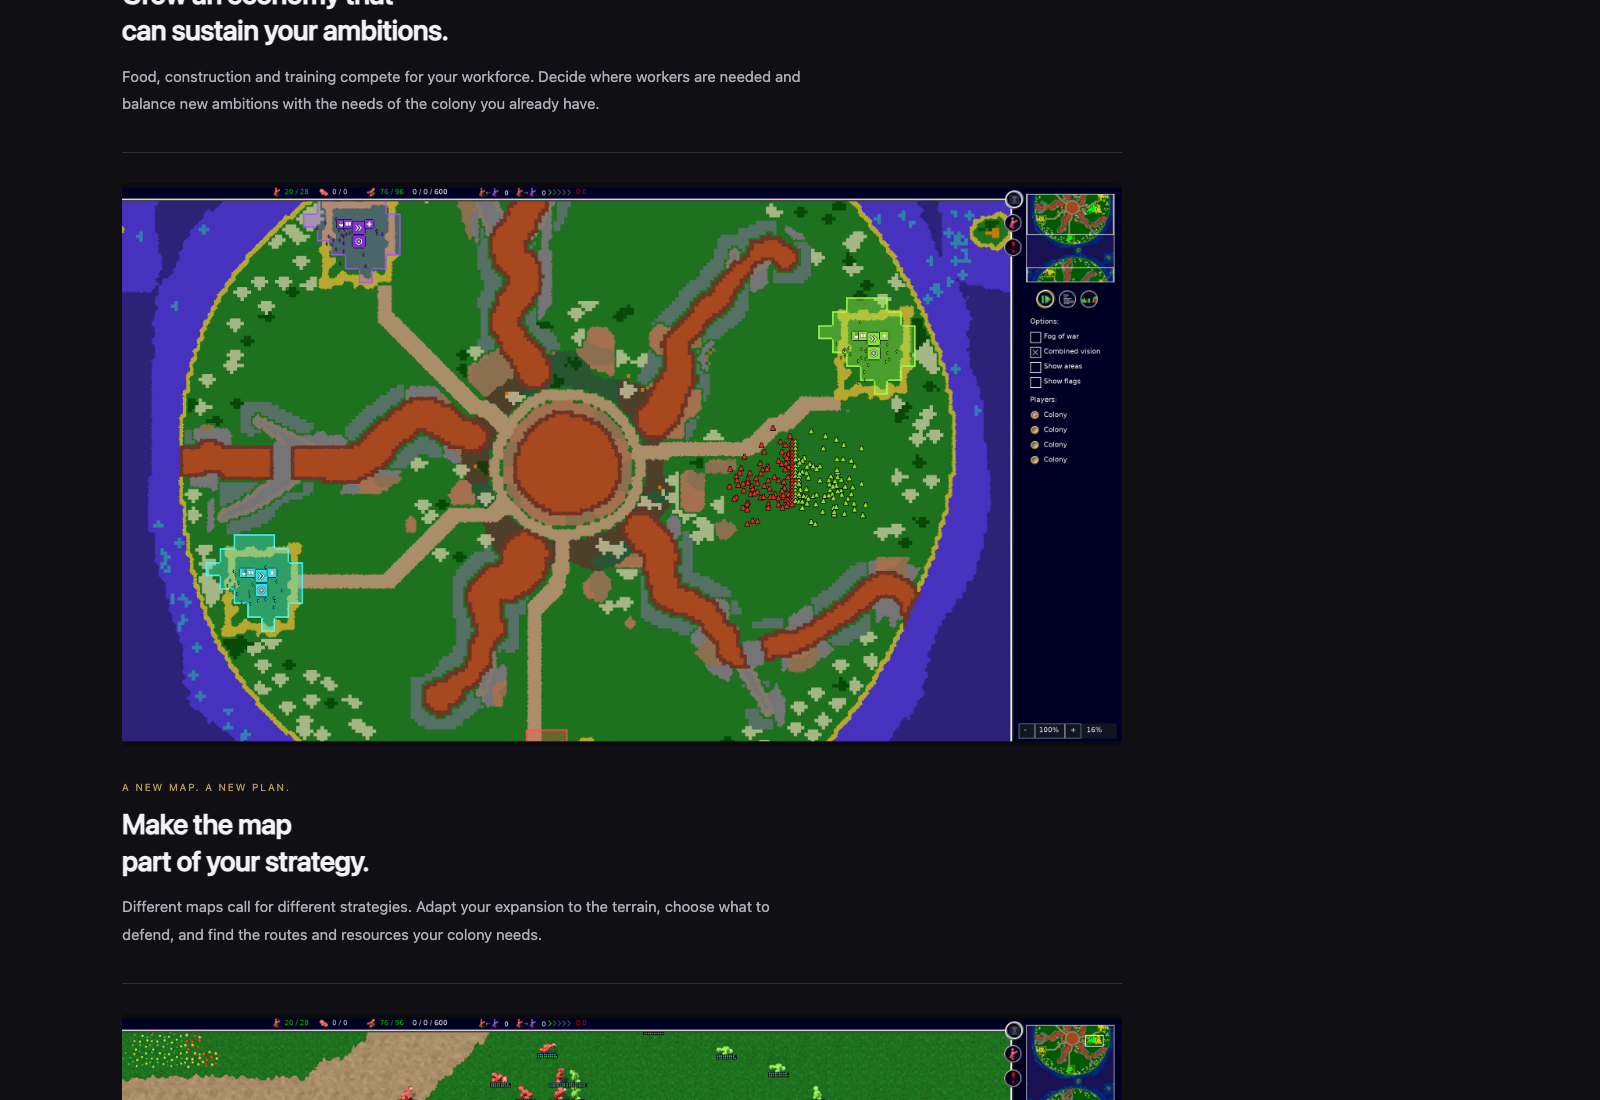
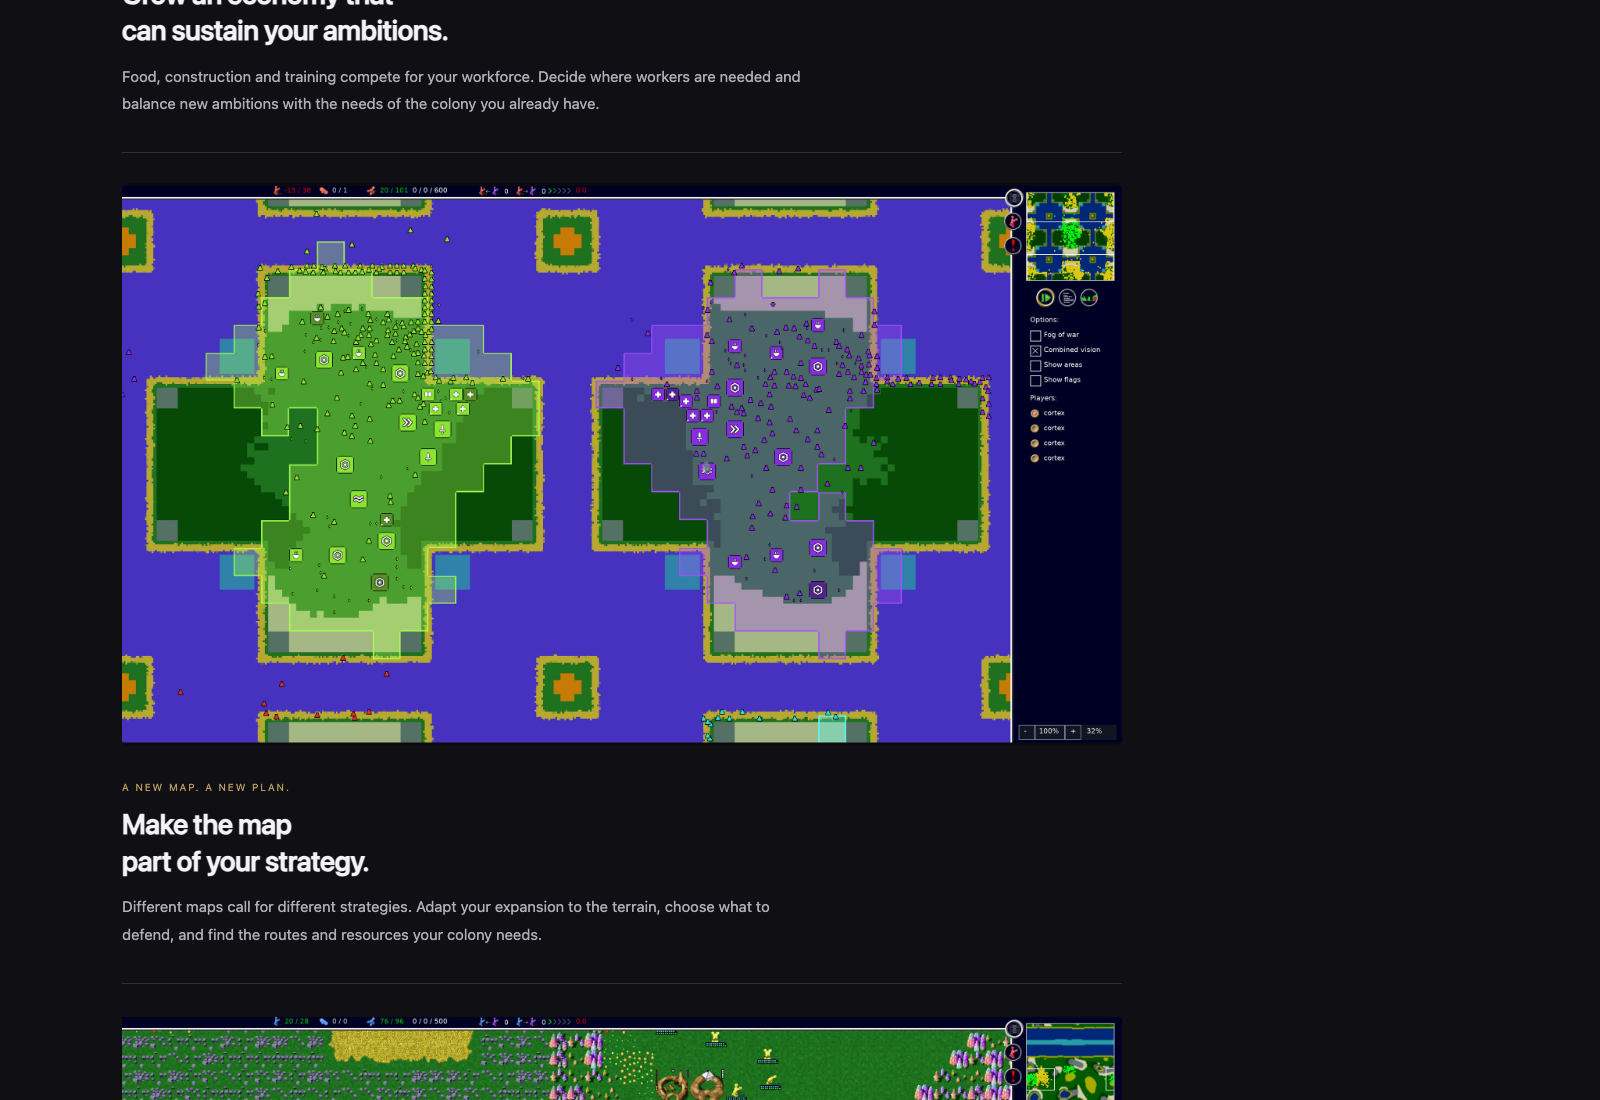
Show a developed Four Squares match in the strategic view
Replace the Strategic view gallery entry and spatial About image with the
native midgame Four Squares capture. This gives the page a third map alongside
the River battle and closer Lava Shield terrain. Update alt text and provenance
to distinguish the genuinely developed AI match from the authored River and
Lava Shield scenarios. Preserve the general map-strategy copy, cover, colony,
River battle, Lava Shield terrain and layout.

Render and visually review strategic selection and spatial-section proofs.
Verify five gallery entries, correct hero and About image, unchanged general
map copy, full-HUD contain framing, no broken images, disabled Get action and
no mobile horizontal overflow. Parent reviewed the selected page proof;
whitespace checks pass. Record completion and the AI-match provenance in the
ledger. Earlier captures and proofs retain historical context; no live listing
or Windows release qualification was changed.

Changed region(s): [[0.0625, 0.1545, 0.7188, 0.68], [0.0625, 0.9273, 0.7188, 1.0], [0.5, 0.9891, 0.5312, 1.0]]

diff --git a/assets/epic-page-preview/index.html b/assets/epic-page-preview/index.html
@@ -19,12 +19,12 @@
 <button class="thumb selected" aria-pressed="true" data-image="../epic-v5/offer-landscape-2560x1440.png" data-alt="Globulation 2 illustrated key art"><img src="../epic-v5/offer-landscape-2560x1440.png" alt="Cover"><span>Cover</span></button>
 <button class="thumb" aria-pressed="false" data-image="media/colony.webp" data-alt="A productive colony, with workers, food, buildings and resources"><img src="media/colony.webp" alt="Colony"><span>Colony</span></button>
 <button class="thumb" aria-pressed="false" data-image="../epic-gallery-v4/river-battle.jpg" data-alt="Native in-engine battle scene with opposing blue and gold warriors on River"><img src="../epic-gallery-v4/river-battle.jpg" alt="Battle"><span>Battle</span></button>
-<button class="thumb" aria-pressed="false" data-image="../epic-gallery-v3/lava-shield-strategic.jpg" data-alt="Native strategic overview showing colony territory, building icons and opposing forces on Lava Shield"><img src="../epic-gallery-v3/lava-shield-strategic.jpg" alt="Strategic view"><span>Strategic view</span></button>
+<button class="thumb" aria-pressed="false" data-image="../epic-gallery-v5/four-squares-midgame-strategic.jpg" data-alt="Native strategic overview of a developed Four Squares AI match, showing colony territory, buildings and armies"><img src="../epic-gallery-v5/four-squares-midgame-strategic.jpg" alt="Strategic view"><span>Strategic view</span></button>
 <button class="thumb" aria-pressed="false" data-image="../epic-gallery-v3/lava-shield-terrain-in-use.jpg" data-alt="Lava Shield in use, with colony buildings, units and routes around the lava terrain"><img src="../epic-gallery-v3/lava-shield-terrain-in-use.jpg" alt="Lava Shield terrain in use"><span>Lava Shield</span></button>
 </div>
 <section class="summary" id="about"><h2>Build a thriving colony<br>in contested territory.</h2><p>Food, workers and space shape your expansion. Grow a sprawling colony, balance its competing needs, and contend with rivals for land and resources. Your creatures act autonomously, letting you guide the colony as a whole.</p><div class="genres"><div><span>GENRES</span><p>Strategy · Real-Time Strategy</p></div><div><span>FOCUS</span><p>Colony building · Resource management</p></div></div></section>
 <section class="story"><img src="media/colony.webp" alt="A colony economy of buildings, food supplies and workers"><div class="storytext"><span class="eyebrow">FOOD. WORKERS. GROWTH.</span><h2>Grow an economy that<br>can sustain your ambitions.</h2><p>Food, construction and training compete for your workforce. Decide where workers are needed and balance new ambitions with the needs of the colony you already have.</p></div></section>
-<section class="story"><img src="../epic-gallery-v3/lava-shield-strategic.jpg" alt="Native strategic view of Lava Shield showing colony territory, buildings and a contested front"><div class="storytext"><span class="eyebrow">A NEW MAP. A NEW PLAN.</span><h2>Make the map<br>part of your strategy.</h2><p>Different maps call for different strategies. Adapt your expansion to the terrain, choose what to defend, and find the routes and resources your colony needs.</p></div></section>
+<section class="story"><img src="../epic-gallery-v5/four-squares-midgame-strategic.jpg" alt="Native strategic view of a developed Four Squares AI match, showing colony territory, buildings and armies"><div class="storytext"><span class="eyebrow">A NEW MAP. A NEW PLAN.</span><h2>Make the map<br>part of your strategy.</h2><p>Different maps call for different strategies. Adapt your expansion to the terrain, choose what to defend, and find the routes and resources your colony needs.</p></div></section>
 <section class="story"><img src="../epic-gallery-v4/river-battle.jpg" alt="Opposing blue and gold warriors fighting on River in a native in-engine scene"><div class="storytext"><span class="eyebrow">GROWTH UNDER PRESSURE</span><h2>Defend what<br>you've built.</h2><p>Your economy supports both growth and defense. Balance the needs of your colony while rivals compete for land and resources, and prepare for conflicts that can decide the match.</p></div></section>
 <div class="opensource"><h3>Free and open source.</h3><p>A strategy game to play, explore and help shape.</p></div>
 </div>

diff --git a/assets/epic-page-preview/README.md b/assets/epic-page-preview/README.md
@@ -25,10 +25,10 @@ Copy derives from the [selected positioning](../../analysis/positioning-v1.md) a
 | [Illustrated cover](../epic-v5/README.md) | Promotional key art: generated environment, existing title and exact source-unit silhouettes. It is not a gameplay screenshot. The sidebar logo uses the same pack. |
 | `media/colony.webp` | Unchanged website `public/images/home-thriving-colony.webp`, revision [6e391ebe](https://github.com/Globulation2/glob2-online-website/tree/6e391ebe93b725747827a3ed7cea78f0d0d8f7e1). Actual Fingerprint / Quick clash replay recorded 2026-10-11, tick41350, fog disabled and outer HUD cropped. It is not a fresh Epic Windows capture. |
 | [Battle](../epic-gallery-v4/river-battle.jpg) | Native GameGUI output of a staged River scenario with blue and gold warriors in actual combat. Prepared on 2026-10-30 to add another map and different team colours. It is not an ordinary completed match. |
-| [Strategic view](../epic-gallery-v3/lava-shield-strategic.jpg) | The staged Lava Shield scenario rendered through the native strategic-overview GUI, showing territory, building icons and unit markers. This demonstrates the actual overview presentation rather than substituting a flat map export. |
+| [Strategic view](../epic-gallery-v5/four-squares-midgame-strategic.jpg) | A developed Four Squares AI match at 25,000 ticks, rendered through the actual native strategic-overview GUI. Four surviving Cortex colonies have 799 units, 611 warriors and 64 buildings. The position grew through the real AI simulation, without authored extra spawns. |
 | [Lava Shield terrain in use](../epic-gallery-v3/lava-shield-terrain-in-use.jpg) | A closer native view of the staged scenario, showing colony activity and units in the lava terrain. Replaces the similar whole-map framing on 2026-10-30; the strategic view remains unchanged. |
 
-The [River battle pack](../epic-gallery-v4/README.md) and [Lava Shield capture pack](../epic-gallery-v3/README.md) record the respective scenario setups, actual combat observations, native renderer/HUD, source identities and export treatment. The scenes were composed in the engine with real game units, buildings and terrain. No unit graphics, combat effects or interface elements were painted into the screenshots. It does not establish natural-match prevalence, player demand, game performance or Epic Windows launcher qualification.
+The [River battle pack](../epic-gallery-v4/README.md), [Four Squares strategic pack](../epic-gallery-v5/README.md) and [Lava Shield terrain pack](../epic-gallery-v3/README.md) record their respective simulation, native renderer/HUD, source identities and export treatment. River and Lava Shield are authored in-engine scenes; Four Squares is a developed AI match. No unit graphics, combat effects or interface elements were painted into the screenshots. These captures do not establish player demand, typical match prevalence, game performance or Epic Windows launcher qualification.
 
 The spatial About image uses the populated strategic view, and the defence section has the battle image. On **2026-10-30**, the spatial copy was broadened to explain how different maps call for different strategies; Lava Shield remains the illustration rather than the subject of that section. Lava Shield's crater, branching flows and crossings are supported by the [map guide](https://github.com/Globulation2/glob2/blob/53110681a31d08423568afe26d5b8d8f9ac45dd1/docs/map-generators/lava-shield.md). The [map capture pack](../epic-gallery-v2/README.md) retains the superseded whole-map export and its separate generation/render provenance.
 
@@ -36,7 +36,7 @@ The old `media/expansion.webp` and `media/defence.webp` files remain historical 
 
 ## Remaining production work
 
-The requested battle and populated strategic-view roles are now prepared as representative native scene captures. Capturing a naturally developed match remains a separate possible replacement, rather than the provenance of these images. Review the gallery and copy in Epic's actual fields/crop preview, confirm release-specific rights and metadata, and qualify the Windows build before submission. Nothing in this local review authorizes uploads or publication.
+The battle and terrain roles use authored native scenarios; the strategic view now shows a genuinely developed AI match. A human-player match is not the provenance of these images. Review the gallery and copy in Epic's actual fields/crop preview, confirm release-specific rights and metadata, and qualify the Windows build before submission. Nothing in this local review authorizes uploads or publication.
 
 ## Visual checks
 
@@ -47,7 +47,7 @@ Rendered in the local browser at 1600×1100 desktop and 390×844 mobile. The mob
 - [Map-strategy section — copy updated 2026-10-30](map-strategy-section.png)
 - [Battle selected — River, updated 2026-10-30](battle-selection.png)
 - [Defence section — River battle](defence-section.png)
-- [Strategic view selected](strategic-selection.png)
+- [Strategic view selected — Four Squares midgame, updated 2026-10-30](strategic-selection.png)
 - [Lava Shield terrain selected — updated 2026-10-30](lava-shield-selection.png)
 - [Full-page review](desktop-full-page.jpg)
 - [Mobile overview](mobile-overview.png)
@@ -57,3 +57,5 @@ After extending the gallery on **2026-10-27**, all review images were regenerate
 On **2026-10-30**, only the fifth gallery image was replaced with the closer terrain-in-use capture after the user approved the other images and noted the whole-map/strategic duplication. The updated Lava Shield selection proof was rendered and inspected; image loading, selection, full-frame display and mobile overflow were checked. Other approved source images and About image assignments remain byte-identical. Earlier overview/full-page proofs retain their dated gallery thumbnails; the current selected proof above shows the replacement.
 
 Also on **2026-10-30**, the Battle gallery entry and defence About image were replaced with the River capture in blue and gold team colours. This adds map and colour variety while preserving the cover, colony, strategic and Lava Shield terrain source images. Battle selection and defence proofs were refreshed; desktop/mobile selection, image loading, full-frame display and overflow checks passed. Earlier overview proofs retain their dated thumbnails.
+
+The strategic gallery entry and spatial About image were subsequently replaced on **2026-10-30** with the developed Four Squares AI match. This gives the gallery a third map and a genuine midgame position. The general map-strategy copy, River battle, Lava Shield terrain, colony and cover remain unchanged. Strategic selection and spatial-section proofs were refreshed; desktop/mobile selection, image loading and full-frame display were checked.

diff --git a/planning/tasks.md b/planning/tasks.md
@@ -41,10 +41,11 @@ On 2026-10-26, the user authorized completing the public platform audit and draf
 | MKT-026 | Broaden the spatial-strategy About copy beyond Lava Shield | Complete | On 2026-10-30, the [local preview](../assets/epic-page-preview/README.md) describes adapting expansion, routes and defence across different maps. The strategic image and heading remain; the copy no longer presents this section as a Lava Shield description. About rendering and whitespace reviewed; no live store change. |
 | MKT-027 | Replace the repetitive Lava Shield map image with terrain in use | Complete | On 2026-10-30, the [last gallery slot](../assets/epic-page-preview/README.md) uses a closer native staged-scene view of colony activity, units and lava terrain. The user approved the other images; their source bytes and About assignments remain unchanged. Updated selection proof, image loading, full-frame display and mobile layout checked. Whole-map source retained as historical provenance; no live store change. |
 | MKT-028 | Give the battle screenshot a different map and team colours | Complete | On 2026-10-30, the [River battle pack](../assets/epic-gallery-v4/README.md) supplies native blue/gold combat for the gallery and defence About image. Other source images and copy remain unchanged. Battle/defence proofs, image loading, full-frame display and mobile layout reviewed. The scenario is staged in-engine; no live store change. |
+| MKT-029 | Show a developed strategic position on a third map | Complete | On 2026-10-30, the [Four Squares AI match capture](../assets/epic-gallery-v5/README.md) replaces the staged Lava Shield strategic image in the gallery and spatial About section. At 25,000 ticks, four colonies have 799 units, 611 warriors and 64 buildings grown through AI simulation. No extra authored spawns; no human-match claim. General map copy and other images remain unchanged; selected/spatial proofs and desktop/mobile checks reviewed. |
 
 The user rejected the first artwork direction on 2026-10-26 as presentation-like. Its files remain historical evidence; the current art task is a full-bleed, image-led replacement informed by actual store covers, with title hierarchy and colony/economy imagery. The first generated illustration’s globs were also rejected. The subsequent [organism-shape study](../assets/epic-v2/README.md) remains historical: it relied too heavily on a generic icon rather than preserving distinct unit proportions. The user directed use of real character images, with longer, slender workers and bulkier warriors. [Unchanged source renders and a matched comparison sheet](../assets/epic-v2/unit-references/README.md) now supply that reference. A source-reference edit still failed to preserve exact anatomy. The [actual-source cover direction](../assets/epic-v4/README.md) instead uses an unchanged game scene with the existing title, keeping the real unit shapes. The [failed source-reference illustration](../assets/epic-v3/README.md) remains historical. The source covers are native-size review drafts, not submission exports; user visual feedback, fresh high-resolution captures and store qualification remain open.
 
-**Current artwork direction:** the [v5 pack](../assets/epic-v5/README.md) is the working flagship for the professional Epic presentation. The user asked for professional execution regardless of technique. The illustration contains no generated units: real slender workers and bulkier warriors preserve source silhouettes, with team tint and environmental-scale placement. Genuine gameplay media is kept separate. On 2026-10-30, the user approved the other current images visually while requesting a different Lava Shield framing. This does not establish publication or release qualification. The [assembled page](../assets/epic-page-preview/README.md) now shows that direction in context, with a retained colony replay, representative staged native battle/strategic captures and a closer Lava Shield terrain-in-use image. MKT-024 records the staged-scene qualification rather than an ordinary-match claim. The [fresh control screenshot](../assets/epic-gameplay-v1/README.md) was subsequently rejected for abnormal fog rendering and excluded under MKT-022. Stronger current-build mature-colony/economy/rival images, verified Windows release metadata and the actual Epic field/crop preview remain outstanding.
+**Current artwork direction:** the [v5 pack](../assets/epic-v5/README.md) is the working flagship for the professional Epic presentation. The user asked for professional execution regardless of technique. The illustration contains no generated units: real slender workers and bulkier warriors preserve source silhouettes, with team tint and environmental-scale placement. Genuine gameplay media is kept separate. On 2026-10-30, the user approved the other current images visually while requesting a different Lava Shield framing. This does not establish publication or release qualification. The [assembled page](../assets/epic-page-preview/README.md) now shows that direction in context, with a retained colony replay, a staged native River battle, a developed Four Squares AI strategic view and a closer Lava Shield terrain-in-use image. MKT-024 records the staged-scene qualification rather than an ordinary-match claim. The [fresh control screenshot](../assets/epic-gameplay-v1/README.md) was subsequently rejected for abnormal fog rendering and excluded under MKT-022. Stronger current-build mature-colony/economy/rival images, verified Windows release metadata and the actual Epic field/crop preview remain outstanding.
 
 The three-player preparation task remains complete as historical work; the user cancelled its immediate execution in favor of discussion. The working v1 message is selected. Larger gameplay, access/continuity and creator studies remain deferred, without being launch prerequisites.
 
